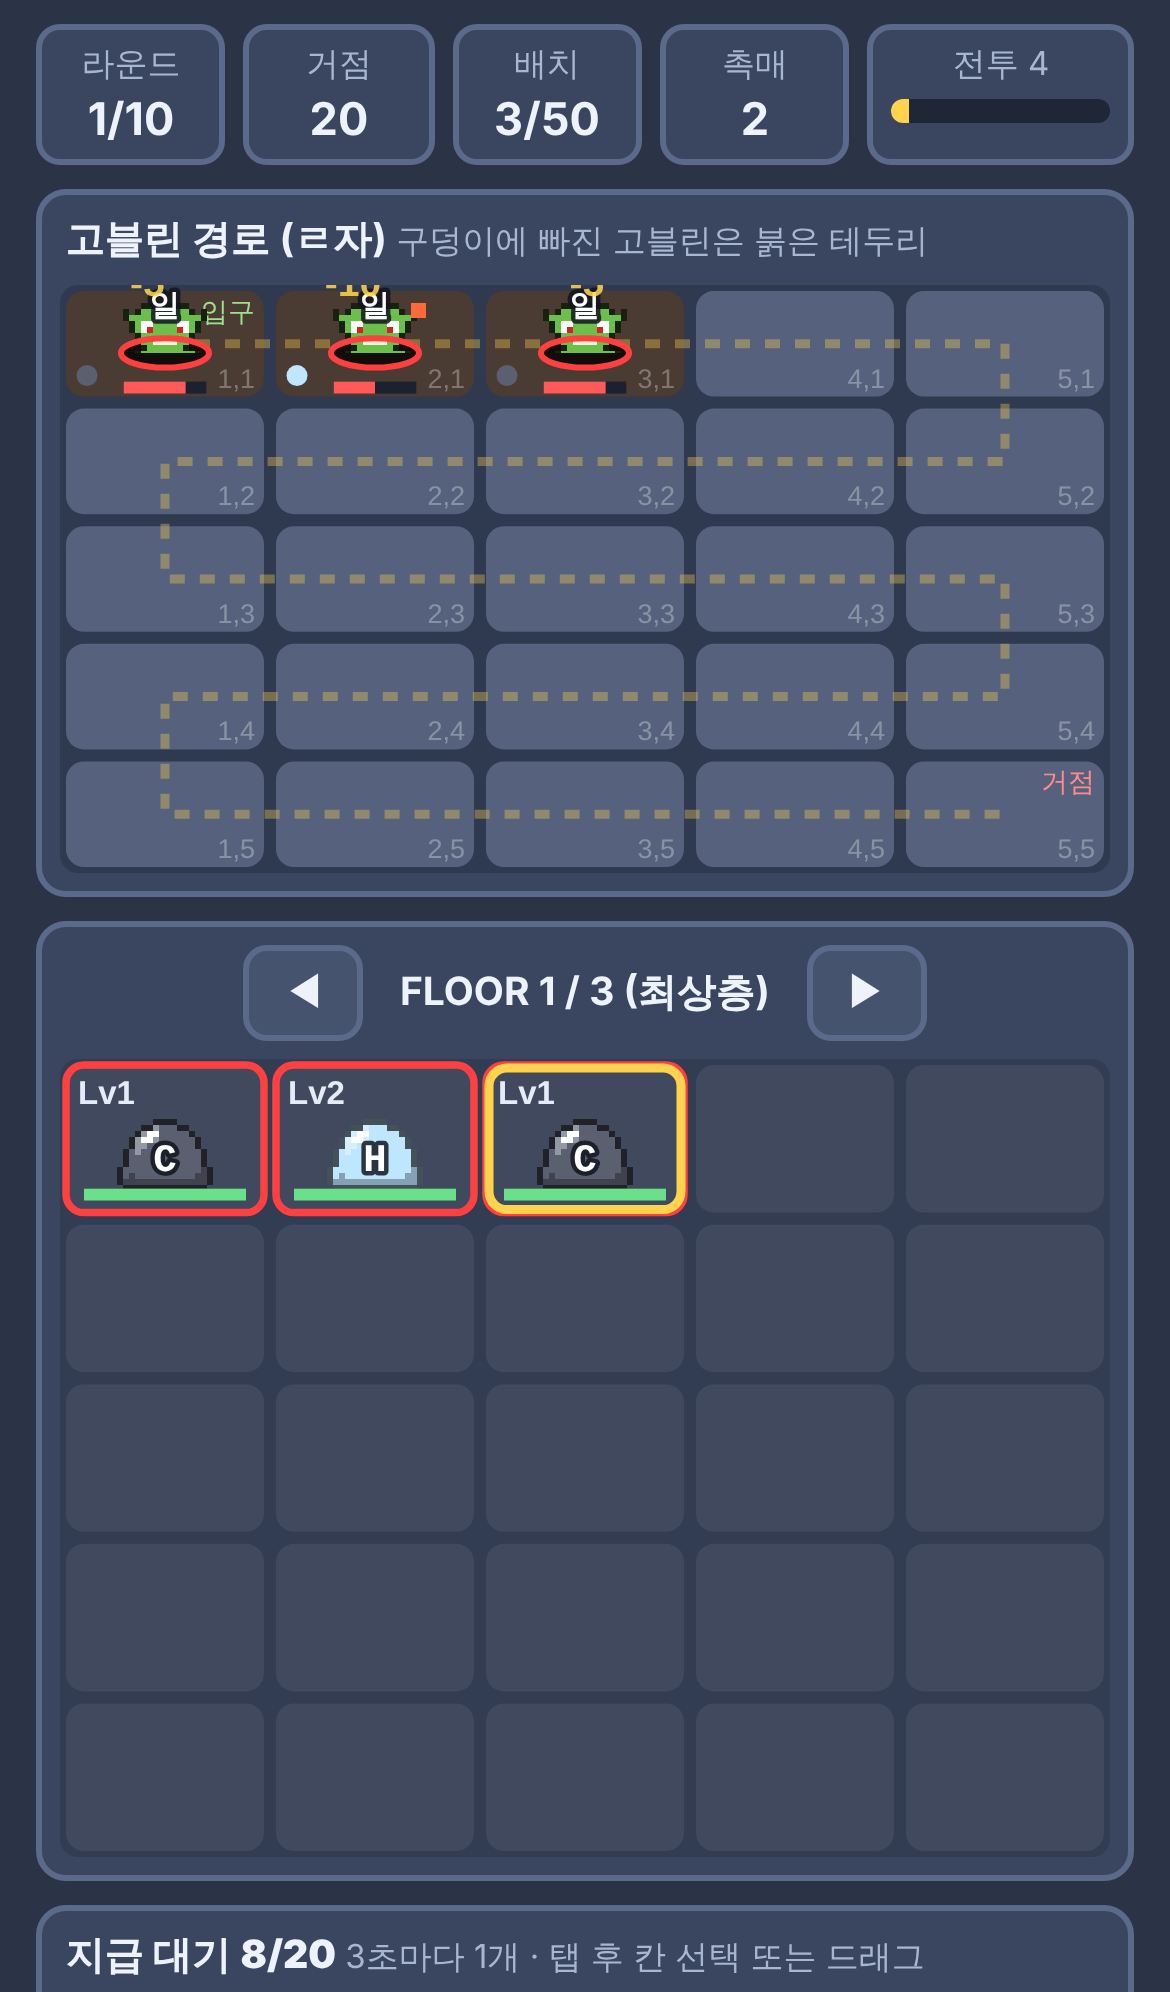
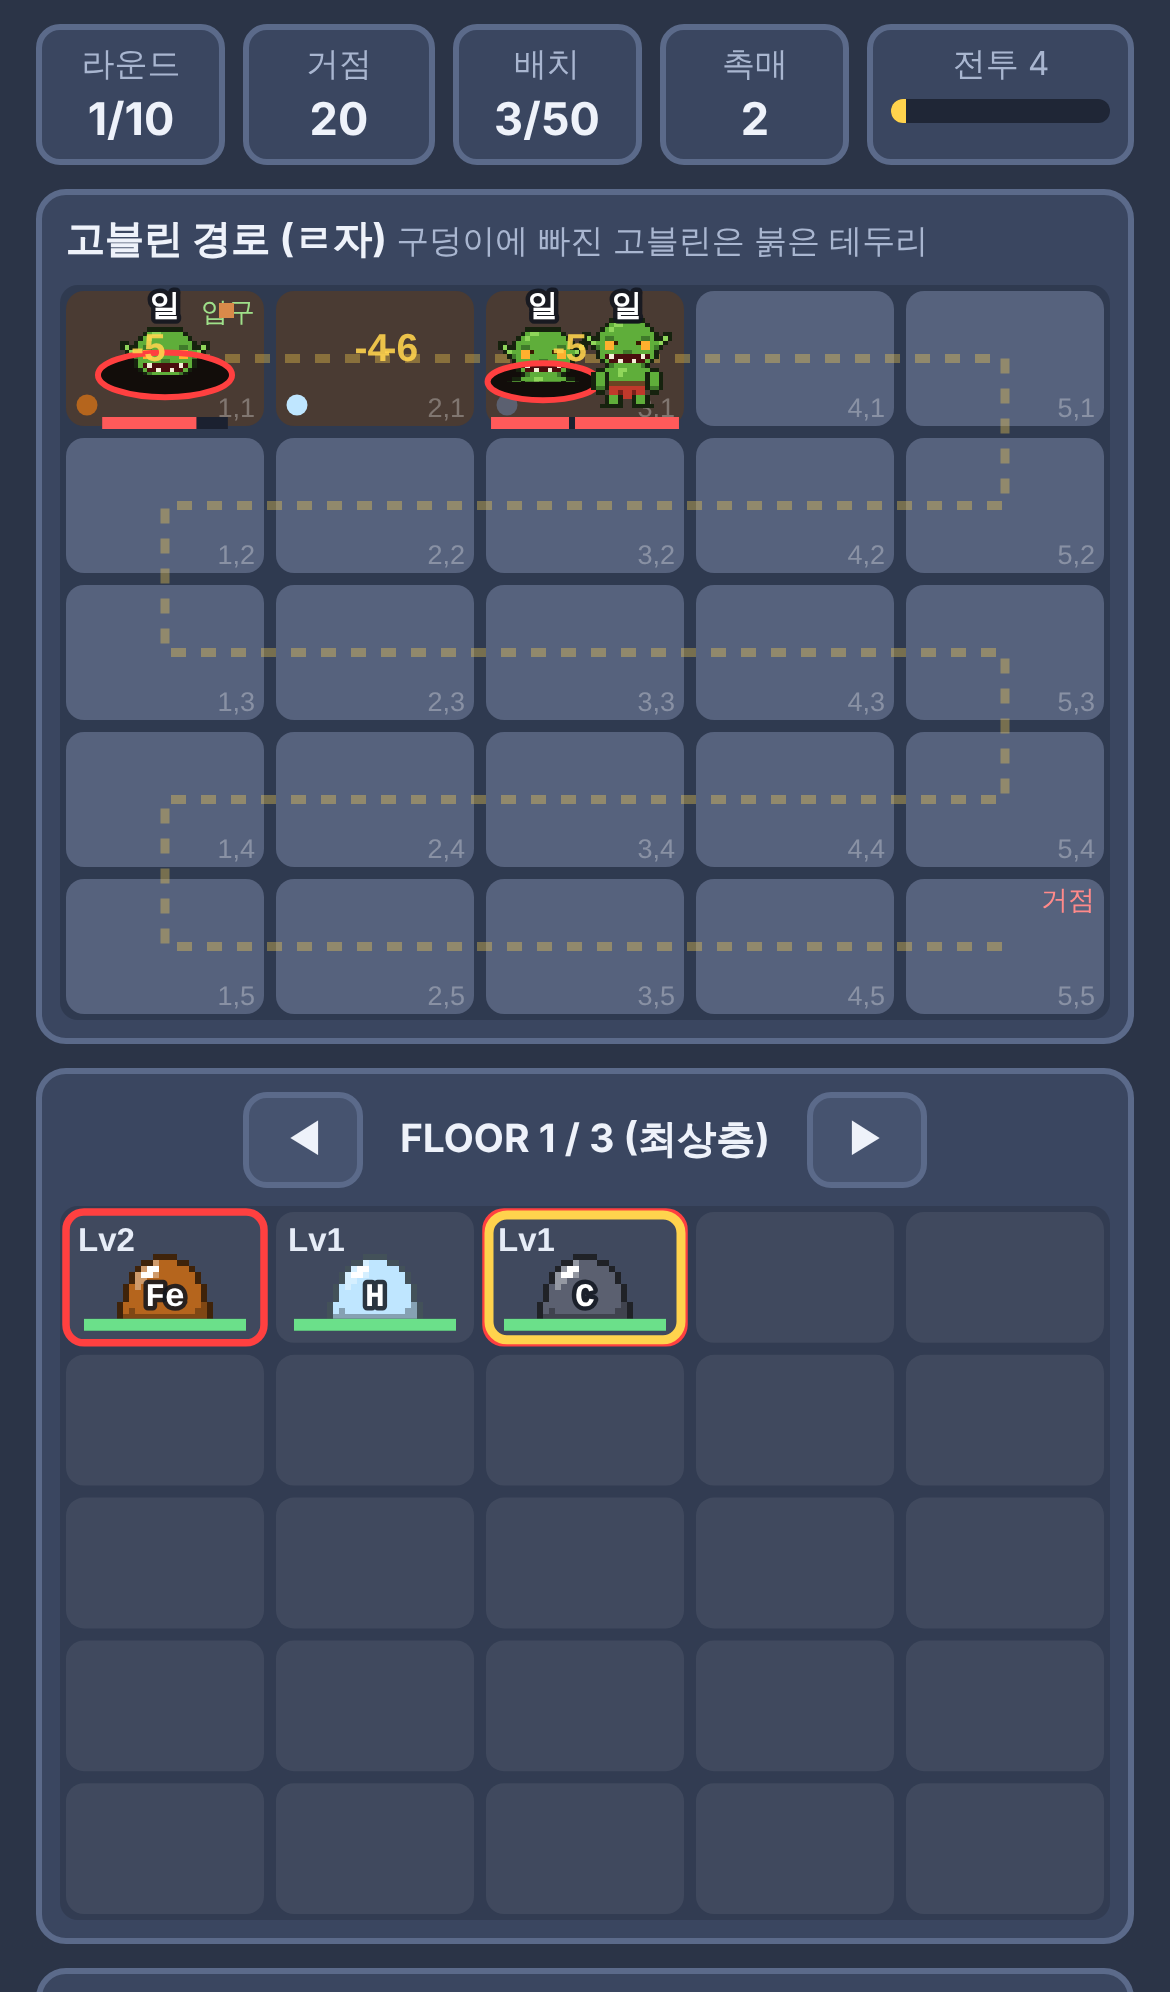
고블린 스프라이트를 참고 이미지 스타일로 재작업
- 20x24 도트: 큰 뾰족 귀, 화난 눈썹, 주황 눈, 송곳니, 3단 녹색 음영, 빨간 허리천
- 종류별 장비: 전투(투구·검), 마법(고깔·지팡이), 기마(모자·창), 궁수(두건·활),
  대장(왕관·망토), 초대형(올리브 피부·뼈 몽둥이·1.25배), 지능형(안경·책)
- 빙결 상태는 하늘색 고블린으로 표시
- 구덩이 고블린은 허리 아래만 잠기게 표시, 경로 맵 확대
- SW 캐시 v0.3.2

Claude-Session: https://claude.ai/code/session_01VoCZM7DGkmV39ftWkPMHK3

Changed region(s): [[0.0308, 0.1245, 0.9846, 0.6847], [0.0308, 0.9337, 0.9846, 1.0]]

diff --git a/src/sprites.js b/src/sprites.js
@@ -13,22 +13,73 @@ const SLIME = [
   'osssssssssssssso',
   '.oooooooooooooo.',
 ];
-const GOBLIN = [
-  '...oooooooo...',
-  'o.oggggggggo.o',
-  'oggggggggggggo',
-  '.ogwwggggwwgo.',
-  '.ogwrggggrwgo.',
-  '..oggggggggo..',
-  '..oggttttggo..',
-  '...oggggggo...',
-  '..occccccccco.',
-  '.ogocccccccogo',
-  '.ogocccccccogo',
-  '..occccccccco.',
-  '...ogo...ogo..',
-  '...ooo...ooo..',
+// 참고 이미지 기준 고블린: 큰 뾰족 귀, 화난 눈썹, 주황 눈, 송곳니, 3단 녹색 음영, 빨간 허리천
+// 20x24 (위 4줄은 모자/왕관용 여백)
+const GOBLIN_BASE = [
+  '....................',
+  '....................',
+  '....................',
+  '....................',
+  '......KKKKKKKK......',
+  '.....KGLLGGGGGK.....',
+  '....KGLGGGGGGGGK....',
+  'KK.KGGGGGGGGGGGGK.KK',
+  'KLKKGDDGGGGGGDDGKKLK',
+  '.KLGGYYPGGGGPYYGGLK.',
+  '..KDGYYGGGGGGYYGDK..',
+  '...KGGGGGDDGGGGGK...',
+  '...KGMWMMMMMMWMGK...',
+  '....KGMMWMMWMMGK....',
+  '.....KDGGGGGGDK.....',
+  '...KKGGGLLGGGGGKK...',
+  '..KGGKGGLGGGGGKGGK..',
+  '..KGGKGGGGGGGGKGGK..',
+  '..KGGKBBBBBBBBKGGK..',
+  '..KDDKRRRRRRRRKDDK..',
+  '...KK.RRrRRrRR.KK...',
+  '.....KGGKRRKGGK.....',
+  '.....KGGK..KGGK.....',
+  '....KKKKK..KKKKK....',
 ];
+// 종류별 장비 오버레이: [행, 20자 문자열] ('.'은 투명)
+const GEAR = {
+  normal: [],
+  fighter: [ // 철 투구 + 검
+    [3, '......KKKKKKKK......'], [4, '.....KSSSSSSSSK.....'], [5, '....KSsSSSSSSsSK....'], [6, '....KKKKKKKKKKKK....'],
+    [12, '..................S.'], [13, '..................S.'], [14, '..................S.'], [15, '..................S.'],
+    [16, '..................S.'], [17, '.................BBB'], [18, '..................B.'],
+  ],
+  mage: [ // 보라 고깔모자 + 지팡이
+    [0, '..........K.........'], [1, '.........KVK........'], [2, '........KVVvK.......'], [3, '.......KVVVVvK......'],
+    [4, '...KKKKVVVVVVvKKKK..'], [5, '...KVVVVVVVVVVVVVK..'],
+    [11, '.Y..................'], [12, '.B..................'], [13, '.B..................'], [14, '.B..................'],
+    [15, '.B..................'], [16, '.B..................'], [17, '.B..................'], [18, '.B..................'],
+  ],
+  rider: [ // 가죽 모자 + 깃털 + 창
+    [2, '.............f......'], [3, '......KKKKKKKf......'], [4, '.....KBBBBBBBBK.....'], [5, '....KBBbBBBBBBbK....'],
+    [3, '..................S.'], [4, '.................SSS'], [5, '..................B.'], [6, '..................B.'],
+    [7, '..................B.'], [8, '..................B.'], [9, '..................B.'], [10, '..................B.'],
+    [11, '..................B.'], [12, '..................B.'], [13, '..................B.'], [14, '..................B.'],
+  ],
+  archer: [ // 초록 두건 + 활
+    [3, '......KKKKKKKK......'], [4, '.....KHHHHHHHHK.....'], [5, '....KHHhHHHHHHhHK...'], [6, '....KHK........KHK..'],
+    [12, '.B..................'], [13, 'B.w.................'], [14, 'B.w.................'], [15, 'B.w.................'],
+    [16, 'B.w.................'], [17, 'B.w.................'], [18, '.B..................'],
+  ],
+  captain: [ // 금 왕관 + 망토 어깨
+    [1, '......Y..YY..Y......'], [2, '......YY.YY.YY......'], [3, '......YYYYYYYY......'], [4, '......YOYYYYOY......'],
+    [15, '..CC............CC..'], [16, '.C................C.'], [17, '.C................C.'], [18, '.C................C.'],
+  ],
+  giant: [ // 뼈 몽둥이
+    [10, '.................bb.'], [11, '................bbbb'], [12, '.................bb.'], [13, '.................bb.'],
+    [14, '.................bb.'], [15, '.................bb.'], [16, '.................bb.'],
+  ],
+  smart: [ // 안경 + 책
+    [9, '....KccK....KccK....'], [10, '....KccKKKKKKccK....'],
+    [17, 'PPP.................'], [18, 'PwP.................'], [19, 'PPP.................'],
+  ],
+};
+
 
 function hex(c) {
   const n = parseInt(c.slice(1), 16);
@@ -63,18 +114,33 @@ export function slimeSprite(color, color2) {
   return cache.get(key);
 }
 
-export function goblinSprite(cloth) {
-  const key = `g|${cloth}`;
+const SKIN = {
+  normal: { K: '#16220e', D: '#3f7a2a', G: '#5fae3a', L: '#8fd65a' },
+  giant:  { K: '#1e1a0c', D: '#4d5a2a', G: '#6f7d3a', L: '#93a052' },
+  frozen: { K: '#10304a', D: '#4f9cc9', G: '#8fd3f2', L: '#d4f3ff' },
+};
+const COMMON = {
+  Y: '#ffb02e', P: '#3a1a00', W: '#f4f0d8', M: '#4a0e0e', R: '#c0392b', r: '#7a1f1a', B: '#6b4423', b: '#efe6cc',
+  S: '#c9d1dc', s: '#7d8796', V: '#7d3cc9', v: '#4b1f80', f: '#ffd34d', H: '#2f6b4f', h: '#1f4a36',
+  O: '#c45a00', C: '#a01818', c: '#bfe9ff', w: '#f4f0d8',
+};
+export function goblinSprite(type, frozen = false) {
+  const key = `g|${type}|${frozen}`;
   if (!cache.has(key)) {
-    const pal = { o: '#18200f', g: '#6cbf4b', w: '#ffffff', r: '#d82020', t: '#f4f0d8', c: cloth };
-    cache.set(key, bake(GOBLIN, pal));
+    const rows = GOBLIN_BASE.slice();
+    for (const [r, line] of GEAR[type] || []) {
+      rows[r] = [...rows[r]].map((ch, i) => (line[i] && line[i] !== '.' ? line[i] : ch)).join('');
+    }
+    const skin = frozen ? SKIN.frozen : type === 'giant' ? SKIN.giant : SKIN.normal;
+    cache.set(key, bake(rows, { ...COMMON, ...skin }));
   }
   return cache.get(key);
 }
 
 // 목표 크기 이하의 최대 정수배로 그린다 (도트 선명도 유지). 반환: 실제 그려진 {x,y,w,h}
 export function drawSprite(ctx, spr, cx, bottom, maxW, maxH) {
-  const k = Math.max(1, Math.floor(Math.min(maxW / spr.width, maxH / spr.height)));
+  const raw = Math.min(maxW / spr.width, maxH / spr.height);
+  const k = raw >= 2 ? Math.floor(raw) : Math.max(1, Math.floor(raw * 2) / 2);
   const w = spr.width * k, h = spr.height * k;
   const x = Math.round(cx - w / 2), y = Math.round(bottom - h);
   ctx.imageSmoothingEnabled = false;

diff --git a/src/main.js b/src/main.js
@@ -26,7 +26,7 @@ function lsSet(k, v) { try { localStorage.setItem(k, v); } catch { /* 저장 불
 // ---------- 캔버스 ----------
 const pathCv = $('pathCv'), pitCv = $('pitCv');
 const pctx = pathCv.getContext('2d'), kctx = pitCv.getContext('2d');
-const PATH_ASPECT = 0.56, PIT_ASPECT = 0.76;
+const PATH_ASPECT = 0.7, PIT_ASPECT = 0.68;
 
 function fitCanvas(cv, aspect) {
   const dpr = Math.min(window.devicePixelRatio || 1, 3);
@@ -107,15 +107,18 @@ function drawPath() {
     const [x, y] = PATH[idx];
     list.forEach((gb, i) => {
       const off = list.length > 1 ? (gb.pit ? -0.2 : 0.2) * cw + (i > 1 ? 4 : 0) : 0;
-      const cx = x * cw + cw / 2 + off, size = Math.min(cw * (list.length > 1 ? 0.55 : 0.7), ch * 0.78);
-      const bottom = y * ch + ch - 8;
-      const spr = goblinSprite(gb.color); let rc;
+      const cx = x * cw + cw / 2 + off, size = Math.min(cw * (list.length > 1 ? 0.55 : 0.85), ch * 0.95) * (gb.type === 'giant' ? 1.25 : 1);
+      const bottom = y * ch + ch - 6;
+      const spr = goblinSprite(gb.type, !!(gb.st.freeze && gb.st.freeze.t > 0)); let rc;
       if (gb.pit) {
         // 구덩이: 어두운 구멍 + 하반신이 가려진 고블린
         pctx.fillStyle = '#120d0a';
         pctx.beginPath(); pctx.ellipse(cx, bottom - size * 0.28, size * 0.48, size * 0.16, 0, 0, Math.PI * 2); pctx.fill();
-        pctx.save(); pctx.beginPath(); pctx.rect(cx - size, bottom - size * 1.4, size * 2, size * 1.12); pctx.clip();
-        rc = drawSprite(pctx, spr, cx, bottom + size * 0.1, size, size);
+        // 구멍 선(holeY) 아래는 가려서 허리천·다리만 잠긴 것처럼 보이게 함
+        const holeY = bottom - size * 0.28, sprH = goblinSprite(gb.type).height;
+        const k = Math.min(size / 20, size / sprH);
+        pctx.save(); pctx.beginPath(); pctx.rect(cx - size, holeY - size * 2, size * 2, size * 2); pctx.clip();
+        rc = drawSprite(pctx, spr, cx, holeY + sprH * k * 0.3, size, size);
         pctx.restore();
         pctx.strokeStyle = '#ff4040'; pctx.lineWidth = 2;
         pctx.beginPath(); pctx.ellipse(cx, bottom - size * 0.28, size * 0.48, size * 0.16, 0, 0, Math.PI * 2); pctx.stroke();

diff --git a/sw.js b/sw.js
@@ -1,5 +1,5 @@
 // 앱 셸 캐시. 파일 변경 시 VERSION을 올리면 구버전 캐시가 삭제된다.
-const VERSION = 'esd-v0.3.1';
+const VERSION = 'esd-v0.3.2';
 const ASSETS = [
   './', './index.html', './manifest.json',
   './src/style.css', './src/main.js', './src/engine.js', './src/data.js', './src/sprites.js',
